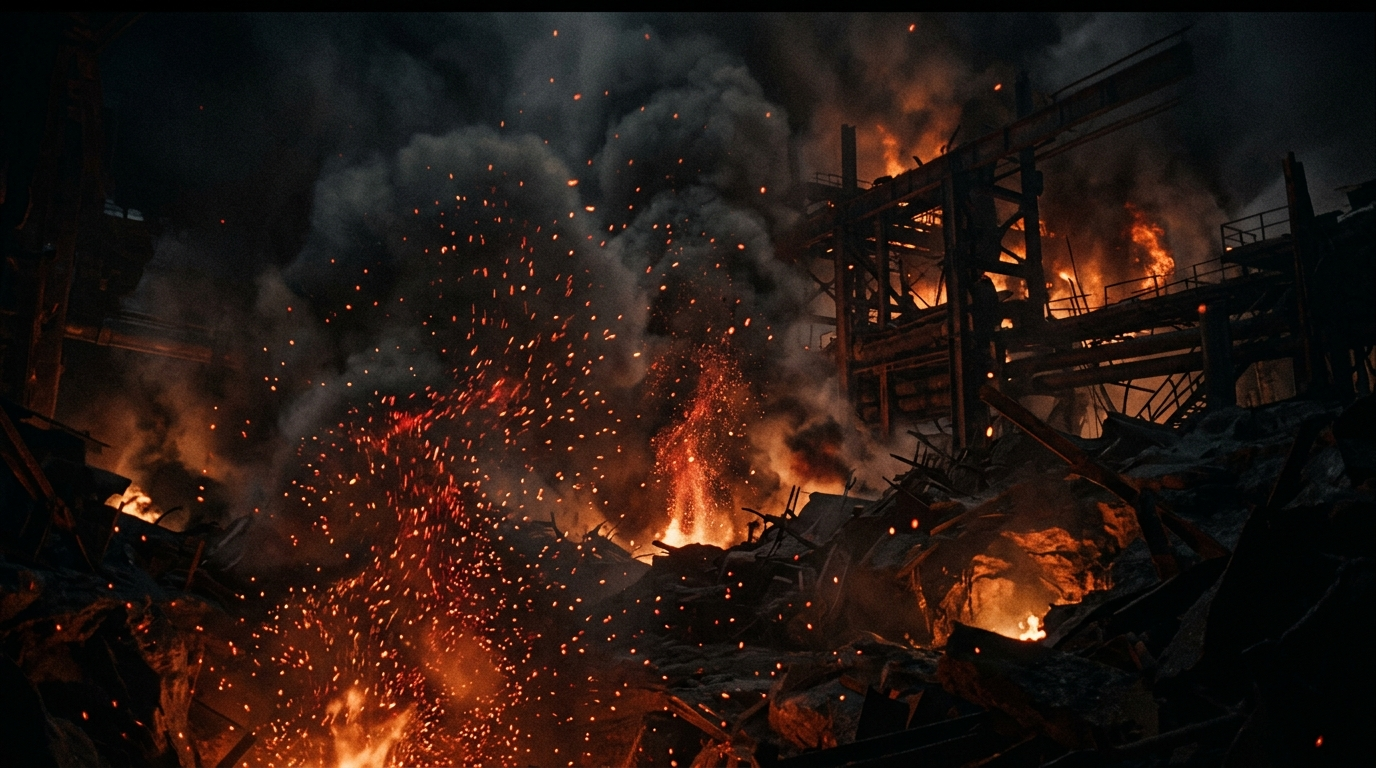
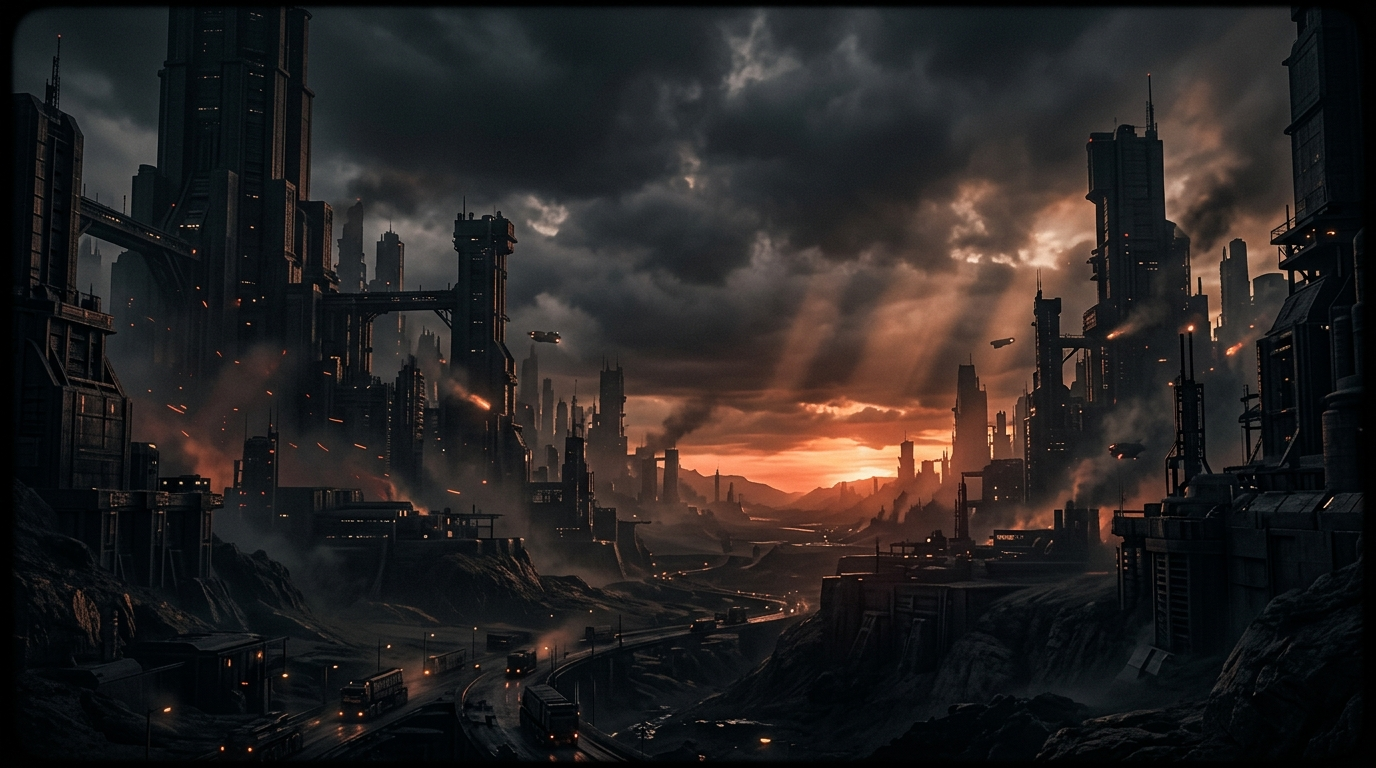
Update background to cinematic Kalki 2898 AD / Salaar dystopian sci-fi aesthetic

diff --git a/css/style.css b/css/style.css
@@ -78,14 +78,14 @@ html {
 body {
   background-color: var(--bg-dark);
   background-image: 
-    linear-gradient(180deg, rgba(7, 8, 10, 0.88), rgba(7, 8, 10, 0.93)),
+    linear-gradient(180deg, rgba(7, 8, 10, 0.78), rgba(7, 8, 10, 0.88)),
     url('../assets/dark_bg.jpg'),
-    radial-gradient(circle at 15% 15%, rgba(255, 42, 66, 0.1) 0%, transparent 45%),
-    radial-gradient(circle at 85% 30%, rgba(255, 107, 53, 0.08) 0%, transparent 50%),
-    radial-gradient(circle at 50% 80%, rgba(183, 9, 76, 0.07) 0%, transparent 55%);
+    radial-gradient(circle at 15% 15%, rgba(255, 42, 66, 0.08) 0%, transparent 45%),
+    radial-gradient(circle at 85% 30%, rgba(255, 107, 53, 0.06) 0%, transparent 50%),
+    radial-gradient(circle at 50% 80%, rgba(183, 9, 76, 0.05) 0%, transparent 55%);
   background-attachment: fixed;
   background-size: cover;
-  background-position: center;
+  background-position: center center;
   min-height: 100vh;
   position: relative;
   overflow-x: hidden;
